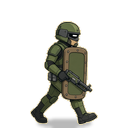
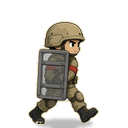
Wire 2-frame walk cycles (Rifleman, Shield, Footman); commit new Shield and Footman walk art

Changed region(s): [[0.2188, 0.1562, 0.7812, 1.0]]

diff --git a/src/render/renderer.ts b/src/render/renderer.ts
@@ -28,13 +28,13 @@ export class Renderer {
   private async loadArt(): Promise<void> {
     const kinds: Record<string, string[]> = {
       rifleman: ['idle', 'walkA', 'walkB', 'attack', 'hit', 'death'],
-      shield: ['idle', 'attack', 'death'],
+      shield: ['idle', 'walkA', 'walkB', 'attack', 'death'],
       tower: ['idle'],
       sniper: ['idle', 'attack', 'death'],
       firearcher: ['idle', 'attack', 'death'],
       cavalry: ['idle', 'attack', 'death'],
       hammerknight: ['idle', 'attack', 'death'],
-      footman: ['idle', 'attack', 'death'],
+      footman: ['idle', 'walkA', 'walkB', 'attack', 'death'],
       footman2: ['idle', 'attack', 'death'],
     };
     const base = import.meta.env.BASE_URL + 'art/';
@@ -196,7 +196,7 @@ export class Renderer {
       const face = e.team === 'zombie' ? -1 : 1;
       v.root.scale.set(p.scale * face, p.scale);
       if (v.sprite.visible) {
-        const t = this.texFor(this.artKind(e), poseOf(e));
+        const t = this.texFor(this.artKind(e), poseOf(e, w.time));
         if (t) v.sprite.texture = t;
         const bob = (e.def.speed > 0 || e.prevX !== e.x) && !e.dead ? Math.sin(w.time * 9 + e.id) * 2 : 0;
         v.sprite.y = bob;

diff --git a/src/render/project.ts b/src/render/project.ts
@@ -33,9 +33,14 @@ export function project(depth: number, x: number): { x: number; y: number; scale
 }
 
 /** Sprite pose for an entity; falls back to idle when a pose has no art. */
-export function poseOf(e: { dead: boolean; windupLeft: number; hitFlash: number; def: { speed: number } }): string {
+export function poseOf(
+  e: { dead: boolean; windupLeft: number; hitFlash: number; def: { speed: number }; id?: number; x?: number; prevX?: number },
+  time = 0,
+): string {
   if (e.dead) return 'death';
   if (e.windupLeft >= 0) return 'attack';
+  if (e.x !== undefined && e.prevX !== undefined && e.x !== e.prevX)
+    return Math.floor(time / 0.18 + (e.id ?? 0)) % 2 === 0 ? 'walkA' : 'walkB'; // 2-frame cycle while moving
   if (e.def.speed > 0) return 'walk';
   return 'idle';
 }
